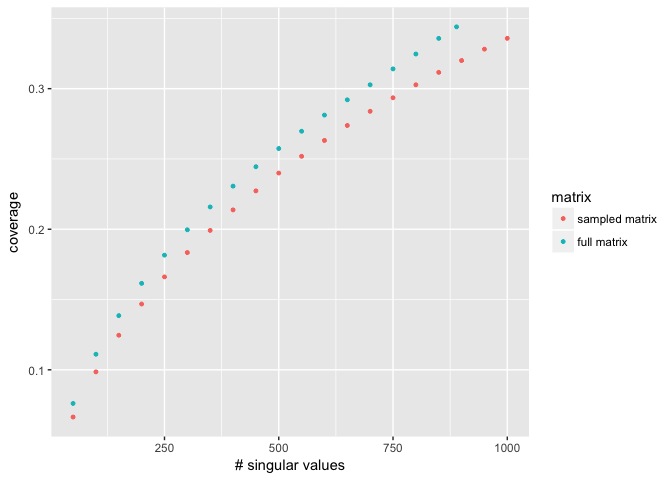
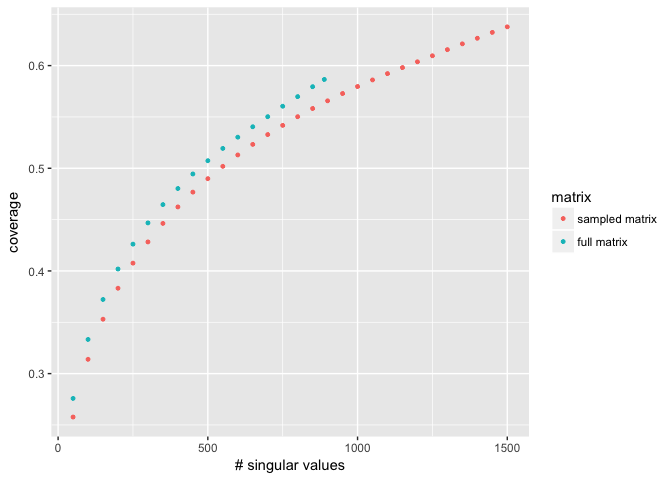
Fix frobenius norm mistake
- Fix calculation in `calculate_coverage.py`
- Rerun the python code and generate new data
- Update the graphs on frobenius norm

diff --git a/Graph_Sparsification/Code/calculate_coverage.py b/Graph_Sparsification/Code/calculate_coverage.py
@@ -1,24 +1,21 @@
+# Generate a R data.frame friendly text file with two columns : nsv and coverage
+
 import sys
 import re
 import timeit
 import argparse
 from collections import defaultdict
-
-"""
-    Generate a R data.frame friendly text file with two columns : nsv and coverage
-"""
+import math
 
 def main():
-    # Parse and sanity check the inputs
     args = parse_args()
-
-    record_coverage(args.m, args.s, args.min, args.max, args.step, args.out)
+    record_coverage(args.m, args.log, args.min, args.max, args.step, args.out)
 
 def parse_args():
     """ Parsing input arguments """
-    parser = argparse.ArgumentParser(description="Calculate forbenius norms on a folder of Graphlab result folders")
-    parser.add_argument('--m', type=str, help="folder with the matrices")
-    parser.add_argument('--s', type=str, help="folder with the SVD result folders")
+    parser = argparse.ArgumentParser(description="Calculate frobenius norms on a folder of Graphlab result folders")
+    parser.add_argument('--m', type=str, help="matrix file")
+    parser.add_argument('--log', type=str, help="GraphLab's log file")
     parser.add_argument('--out', type=str, help="Out file to write the results to")
     parser.add_argument('--max', type=int, help="The maximum number of singular values")
     parser.add_argument('--min', type=int, help="The minimum number of singular values")
@@ -32,7 +29,7 @@ def parse_args():
     return args
 
 def record_coverage(matrix, svals, min_nsv, max_nsv, step, out):
-    print(str(min_nsv) + " " + str(max_nsv) + " " + str(step))
+    """ Write the coverage at different nsv into a file """
     frobenius_norm = frobenius(matrix)
     print("Done with the big matrix")
     print(str(frobenius_norm))
@@ -46,26 +43,20 @@ def record_coverage(matrix, svals, min_nsv, max_nsv, step, out):
         for i in range(min_nsv, max_nsv+1, step):
             print(i)
             variance = sum([s**2 for s in singular_values[0:i+1]])
-            coverage = float(variance)/frobenius_norm
+            variance = math.sqrt(variance)
+            coverage = variance/frobenius_norm
             outfile.write(str(i) + "\t" + str(coverage) + "\t" + str(variance) +  "\n")
 
-
-
-
-
 def frobenius(matrixfile):
-    """ Given the same matrix file to GraphLab, return the forbenius norm.
+    """ Given the same matrix file to GraphLab, return the frobenius norm.
     """
     frobenius = 0
     with open(matrixfile) as f:
     	for _, line in enumerate(f): # 0 base for lineNum
     		_, _, val = line.strip().split('\t')
     		frobenius += float(val)**2
+    frobenius = math.sqrt(frobenius)
     return frobenius
-
-def calculateVariances(svals, start_nsv, end_nsv):
-    return sum([s**2 for s in svals[start_nsv:end_nsv+1]])
-
 
 def getSingularValues(logfile_path, nvalues):
     """ Read in the log file to get an array singluar value and an array of errors
@@ -83,8 +74,6 @@ def getSingularValues(logfile_path, nvalues):
     				break
 
 	return singularVals
-
-
 
 if __name__ == '__main__':
     main()
